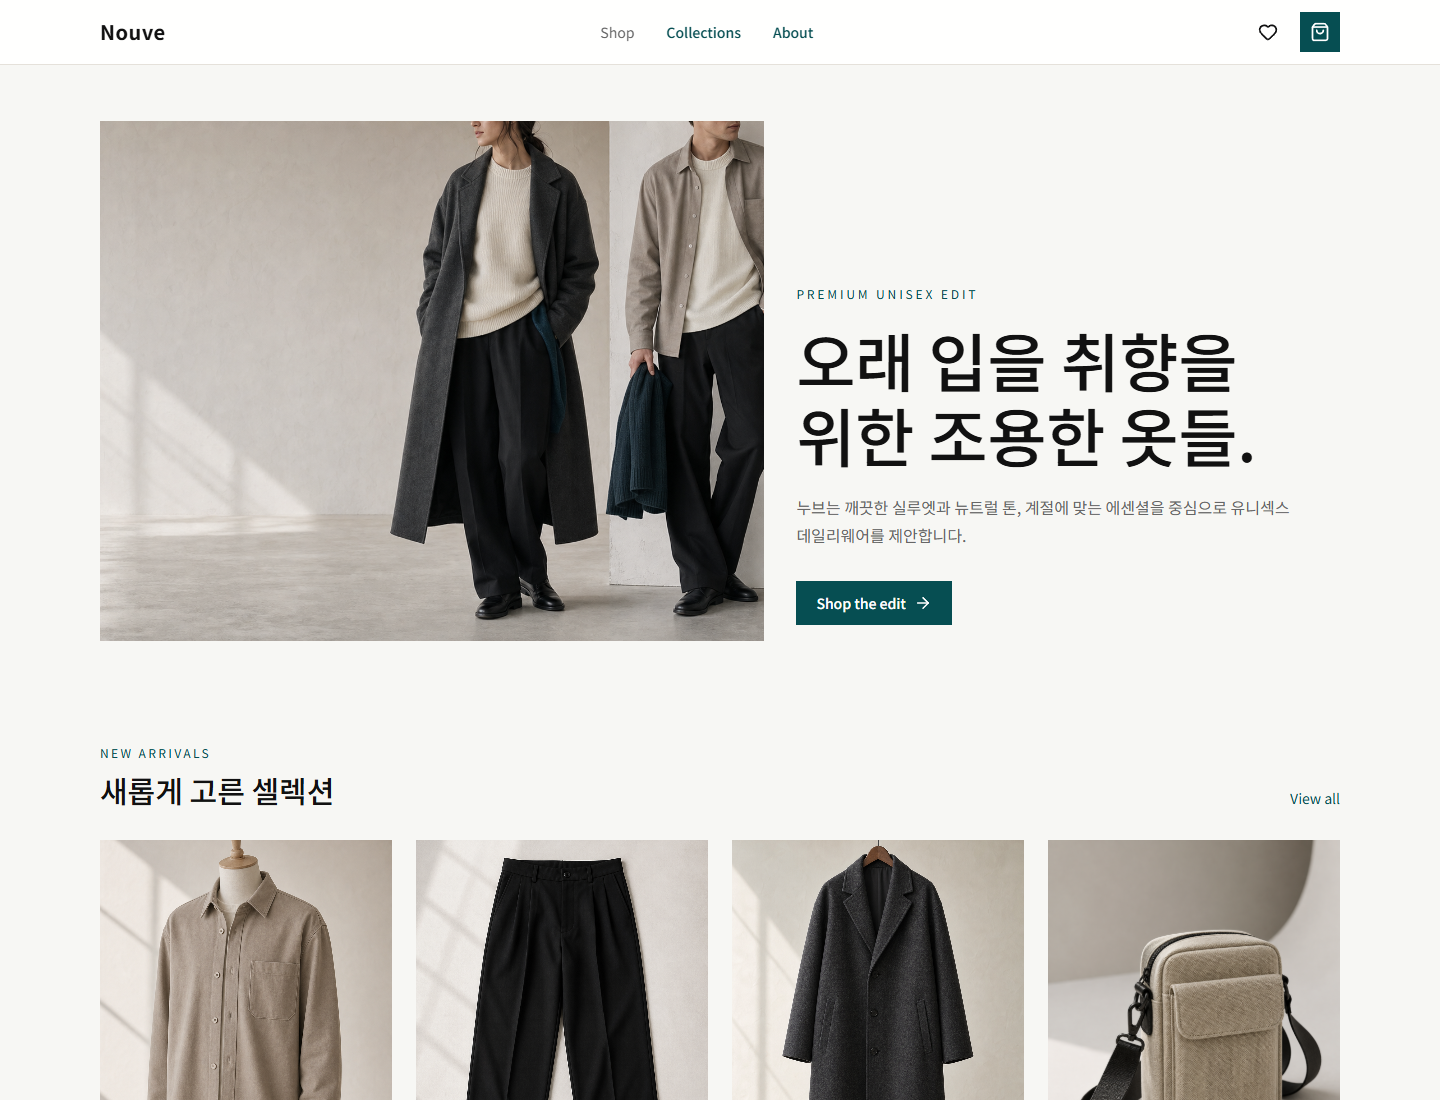
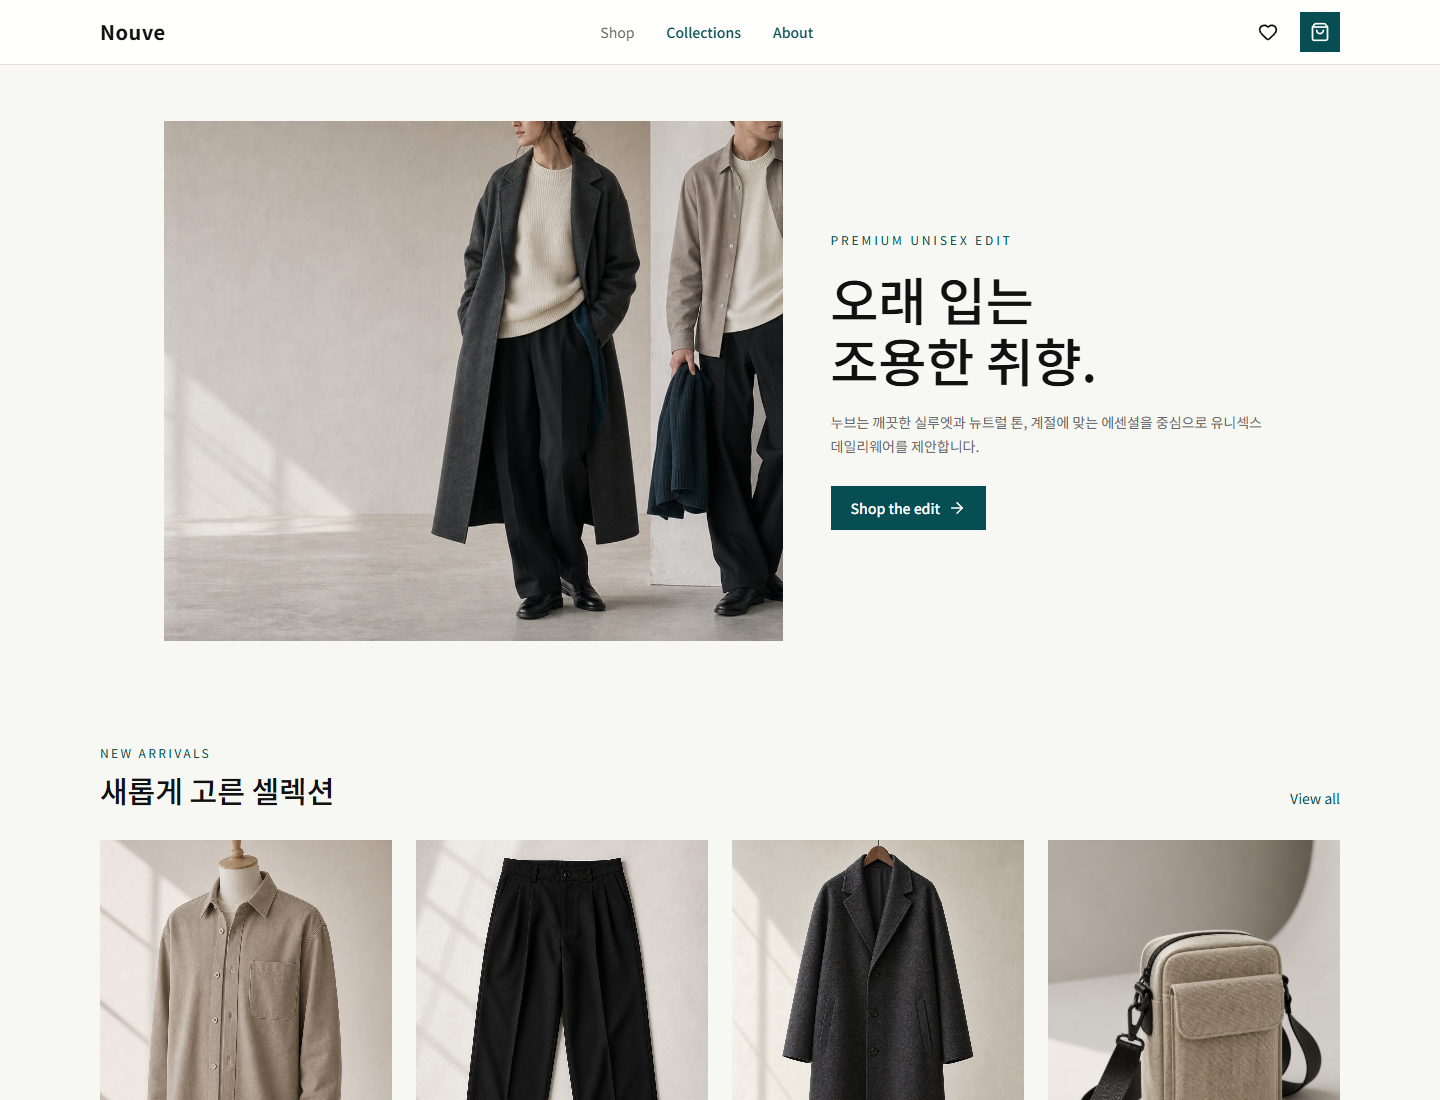
style: rebalance home hero copy

Changed region(s): [[0.1875, 0.0927, 0.875, 0.5873], [0.0625, 0.0927, 0.125, 0.5873], [0.1562, 0.4018, 0.1875, 0.4327]]

diff --git a/src/features/products/pages/HomePage.tsx b/src/features/products/pages/HomePage.tsx
@@ -13,7 +13,7 @@ export function HomePage() {
 
   return (
     <>
-      <section className="mx-auto grid max-w-7xl gap-8 px-5 py-8 md:grid-cols-[1.1fr_0.9fr] md:items-end md:py-14">
+      <section className="mx-auto grid max-w-6xl gap-8 px-5 py-8 md:grid-cols-[minmax(0,1fr)_minmax(300px,0.72fr)] md:items-center md:py-14 lg:gap-12">
         <div className="relative min-h-[520px] overflow-hidden bg-[#e9e3d8]">
           <img
             alt="Nouve seasonal minimalwear campaign"
@@ -21,19 +21,19 @@ export function HomePage() {
             src="/assets/nouve/hero/hero-seasonal-minimalwear-01.png"
           />
         </div>
-        <div className="pb-4">
+        <div>
           <p className="text-xs uppercase tracking-[0.24em] text-[var(--color-primary)]">
             Premium unisex edit
           </p>
-          <h1 className="heading-ko mt-5 max-w-xl text-[2.75rem] md:text-[4rem]">
-            오래 입을 취향을 위한 조용한 옷들.
+          <h1 className="heading-ko mt-5 max-w-md text-[2.25rem] md:text-[3rem] xl:text-[3.25rem]">
+            오래 입는 조용한 취향.
           </h1>
-          <p className="mt-5 max-w-lg break-keep text-base leading-7 text-[var(--color-text-secondary)]">
+          <p className="mt-5 max-w-md break-keep text-sm leading-6 text-[var(--color-text-secondary)]">
             누브는 깨끗한 실루엣과 뉴트럴 톤, 계절에 맞는 에센셜을 중심으로
             유니섹스 데일리웨어를 제안합니다.
           </p>
           <Link
-            className="mt-8 inline-flex h-11 items-center justify-center gap-2 bg-[var(--color-primary)] px-5 text-sm font-medium text-white transition hover:bg-[var(--color-primary-hover)]"
+            className="mt-7 inline-flex h-11 items-center justify-center gap-2 bg-[var(--color-primary)] px-5 text-sm font-medium text-white transition hover:bg-[var(--color-primary-hover)]"
             to="/products"
           >
             Shop the edit <ArrowRight aria-hidden="true" size={18} />
